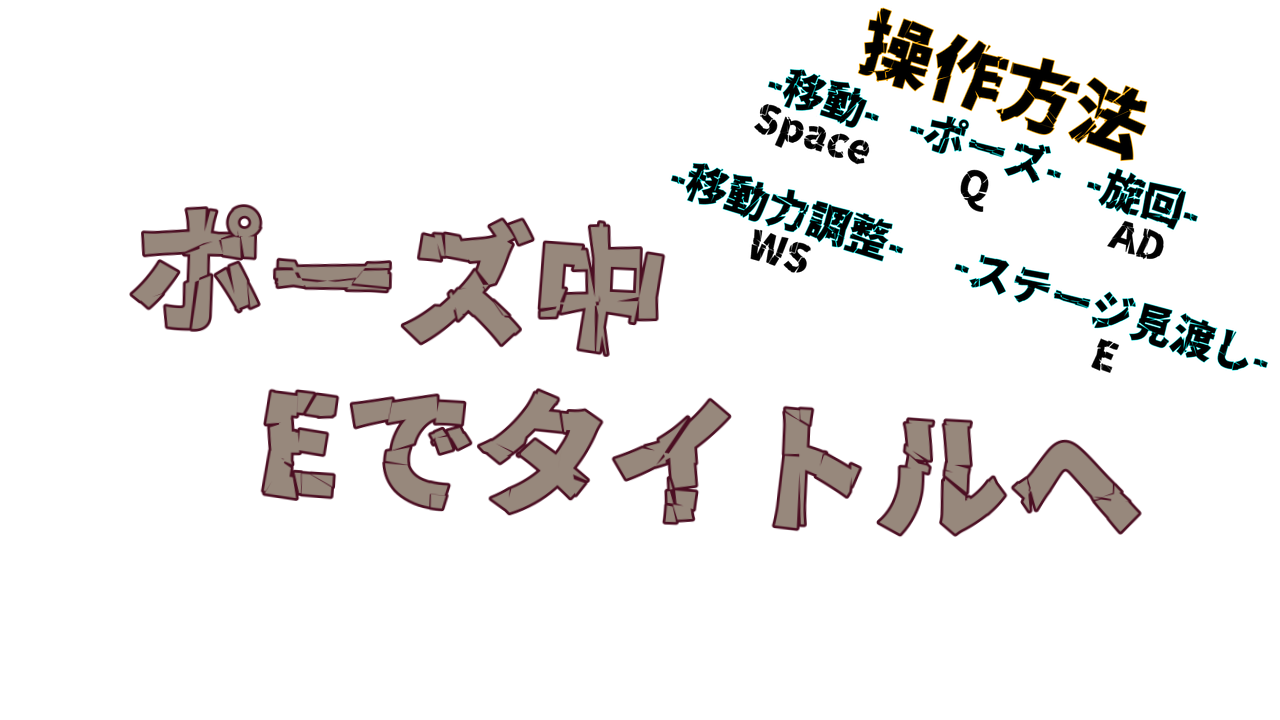
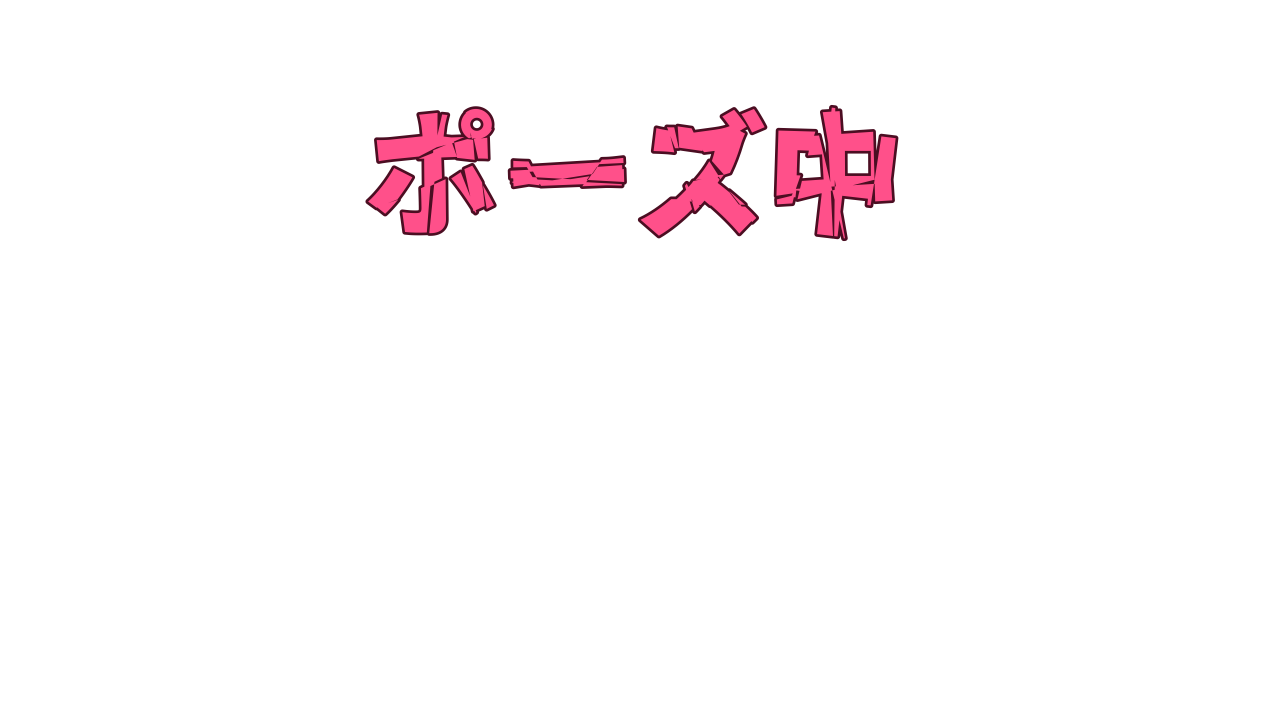
TransitionTest

Changed region(s): [[0.0938, 0.0, 0.9375, 0.4889], [0.1875, 0.5194, 0.9062, 0.7639], [0.75, 0.3361, 1.0, 0.5194]]

diff --git a/Engine/project/gamedata/transition/transition.cpp b/Engine/project/gamedata/transition/transition.cpp
@@ -50,6 +50,7 @@ void Transition::Initialize() {
 	komaTransform_[3].translate = { -410.0f,16.0f,0.0f };
 	komaTransform_[4].translate = { -150.0f,202.0f,0.0f };
 	komaTransform_[5].translate = { -530.0f,300.0f,0.0f };
+	komaTransform_[6].translate = { 1064.0f,-100.0f,0.0f };
 
 	boxTransform_[0].scale = { 1.6f,0.39f,0.4f };
 	boxTransform_[1].scale = { 1.6f,0.39f,0.4f };
@@ -57,6 +58,7 @@ void Transition::Initialize() {
 	boxTransform_[3].scale = { 1.6f,0.39f,0.4f };
 	boxTransform_[4].scale = { 1.8f,0.39f,0.4f };
 	boxTransform_[5].scale = { 1.6f,0.39f,0.4f };
+	boxTransform_[6].scale = { 0.39f,1.6f,0.4f };
 
 	pairMaterial_[0] = { 1.0f,0.75f,0.75f,1.0f };
 	pairMaterial_[1] = { 0.5f,1.0f,0.5f,1.0f };
@@ -64,6 +66,7 @@ void Transition::Initialize() {
 	pairMaterial_[3] = { 1.0f,0.75f,0.75f,1.0f };
 	pairMaterial_[4] = { 0.5f,0.5f,1.0f,1.0f };
 	pairMaterial_[5] = { 0.75f,0.75f,1.0f,1.0f };
+	pairMaterial_[6] = { 0.75f,0.75f,1.0f,1.0f };
 
 	allSpriteTransform_ = {
 		{1.0f,1.0f,1.0f},
@@ -78,10 +81,13 @@ void Transition::Initialize() {
 	};
 }
 
-void Transition::Update() {
+void Transition::SceneChangeUpdate() {
+	for (int i = 0; i < transitionSpriteMaxNum_ - 1; i++) {
+		komaTransform_[i].translate += allSpriteTransform_.translate;
+	}
+
 	for (int i = 0; i < transitionSpriteMaxNum_; i++) {
 		komaTransform_[i].rotate.num[2] += 0.1f;
-		komaTransform_[i].translate += allSpriteTransform_.translate;
 		boxTransform_[i].translate = komaTransform_[i].translate;
 		boxTransform_[i].translate.num[0] += (boxTransform_[i].scale.num[0] - 0.4f) * 24.0f;
 
@@ -122,6 +128,36 @@ void Transition::Update() {
 	ImGui::End();
 }
 
+void Transition::ChangePauseUpdate() {
+	komaTransform_[6].rotate.num[2] += 0.1f;
+	boxTransform_[6].translate = komaTransform_[0].translate;
+	boxTransform_[6].translate.num[1] -= (boxTransform_[6].scale.num[1] - 0.4f) * 24.0f;
+
+	circleTransform_[6].translate.num[0] = boxSprite_[6]->GetLocalPosition(Vector2{ 0.0f,0.5f }, boxTransform_[0]).num[0];
+	circleTransform_[6].translate.num[1] = boxSprite_[6]->GetLocalPosition(Vector2{ 0.0f,0.5f }, boxTransform_[0]).num[1];
+
+	//ポーズ開始用トランジション
+	if (isPauseStart_ == true) {
+		komaTransform_[6].translate.num[1] += transitionSpeed_;
+		if (pauseStartTransitionEndPoint_ <= komaTransform_[6].translate.num[1]) {
+			isPauseStart_ = false;
+		}
+	}
+
+	//ポーズ終了用トランジション
+	if (isPauseEnd_ == true) {
+		komaTransform_[6].translate.num[1] -= transitionSpeed_;
+		if (pauseEndTransitionEndPoint_ >= komaTransform_[6].translate.num[1]) {
+			isPauseEnd_ = false;
+		}
+	}
+
+	//ImGui
+	ImGui::Begin("Transition");
+	ImGui::DragFloat3("Translate", komaTransform_[6].translate.num, 0.5f);
+	ImGui::End();
+}
+
 void Transition::Draw() {
 	for (int i = 0; i < transitionSpriteMaxNum_; i++) {
 		circleSprite_[i]->Draw(circleTransform_[i], spriteUVTransform_, pairMaterial_[i]);
@@ -139,7 +175,8 @@ void Transition::SceneStart() {
 	komaTransform_[2].translate = { 1150.0f,719.0f,0.0f };
 	komaTransform_[3].translate = { 1170.0f,16.0f,0.0f };
 	komaTransform_[4].translate = { 1430.0f,202.0f,0.0f };
-	komaTransform_[5].translate = { 1050.0f,300.0f,0.0f }; 
+	komaTransform_[5].translate = { 1050.0f,300.0f,0.0f };
+	komaTransform_[6].translate = { -530.0f,300.0f,0.0f };
 }
 
 void Transition::SceneEnd() {
@@ -152,4 +189,19 @@ void Transition::SceneEnd() {
 	komaTransform_[3].translate = { -410.0f,16.0f,0.0f };
 	komaTransform_[4].translate = { -150.0f,202.0f,0.0f };
 	komaTransform_[5].translate = { -530.0f,300.0f,0.0f };
+	komaTransform_[6].translate = { -530.0f,300.0f,0.0f };
+}
+
+void Transition::PauseStart() {
+	isPauseStart_ = true;
+	isPauseEnd_ = false;
+
+	komaTransform_[6].translate.num[0] = 1064.0f;
+}
+
+void Transition::PauseEnd() {
+	isPauseEnd_ = true;
+	isPauseStart_ = false;
+
+	komaTransform_[6].translate.num[0] = 1064.0f;
 }

diff --git a/Engine/project/gamedata/transition/transition.h b/Engine/project/gamedata/transition/transition.h
@@ -14,18 +14,26 @@ public:
 
 	void Initialize();
 
-	void Update();
+	void SceneChangeUpdate();
+
+	void ChangePauseUpdate();
 
 	void Draw();
 
 	//シーン明け用
 	void SceneStart();
-
 	//シーン終わり用
 	void SceneEnd();
 
+	void PauseStart();
+
+	void PauseEnd();
+
 	bool GetIsSceneStart_() { return isSceneStart_; }
 	bool GetIsSceneEnd_() { return isSceneEnd_; }
+
+	bool GetIsPauseStart_() { return isPauseStart_; }
+	bool GetIsPauseEnd_() { return isPauseEnd_; }
 
 	Transition(const Transition& obj) = delete;
 	Transition& operator=(const Transition& obj) = delete;
@@ -40,7 +48,7 @@ private:
 	uint32_t box_;
 	uint32_t circle_;
 
-	static const int transitionSpriteMaxNum_ = 6;//独楽と円の個数は同じである必要がある為これは両方に適用する
+	static const int transitionSpriteMaxNum_ = 7;//独楽と円の個数は同じである必要がある為これは両方に適用する
 
 	std::unique_ptr <CreateSprite> komaSprite_[transitionSpriteMaxNum_];
 	EulerTransform komaTransform_[transitionSpriteMaxNum_];
@@ -60,6 +68,9 @@ private:
 	bool isSceneStart_ = false;
 	bool isSceneEnd_ = false;
 
+	bool isPauseStart_ = false;
+	bool isPauseEnd_ = false;
+
 	//遷移スピード
 	const float transitionSpeed_ = 20.0f;
 
@@ -67,4 +78,6 @@ private:
 	const float startTransitionEndPoint_ = 3000.0f;
 	const float endTransitionEndPoint_ = 1430.0f;
 
+	const float pauseStartTransitionEndPoint_ = 550.0f;
+	const float pauseEndTransitionEndPoint_ = -100.0f;
 };

diff --git a/Engine/project/gamedata/scenes/GamePlayScene.cpp b/Engine/project/gamedata/scenes/GamePlayScene.cpp
@@ -251,6 +251,7 @@ void GamePlayScene::Update() {
 
 			//ゲームをポーズ
 			if (input_->TriggerKey(DIK_Q)) {
+				transition_->PauseStart();
 				isGamePause_ = true;
 			}
 		}
@@ -320,10 +321,10 @@ void GamePlayScene::Update() {
 
 		//当たり判定処理
 		CollisionConclusion();
-	}
 
-	//Transition更新
-	transition_->Update();
+		//Transition更新
+		transition_->SceneChangeUpdate();
+	}
 
 	//
 	ImGui::Begin("PlayScene");
@@ -635,8 +636,11 @@ void GamePlayScene::GameProcessing() {
 }
 
 void GamePlayScene::GamePauseProcessing() {
+	transition_->ChangePauseUpdate();
+
 	//ゲームポーズを解除
 	if (input_->TriggerKey(DIK_Q)) {
+		transition_->PauseEnd();
 		isGamePause_ = false;
 	}
 

diff --git a/Engine/project/gamedata/scenes/GameClearScene.cpp b/Engine/project/gamedata/scenes/GameClearScene.cpp
@@ -113,7 +113,7 @@ void GameClearScene::Update() {
 	player_->UpdateView();
 	player_->SetViewProjection(&viewProjection_);
 
-	transition_->Update();
+	transition_->SceneChangeUpdate();
 
 	if (changeAlpha_ == false) {
 		spriteAlpha_ -= fadeSpeed_;

diff --git a/Engine/project/gamedata/scenes/GameOverScene.cpp b/Engine/project/gamedata/scenes/GameOverScene.cpp
@@ -87,7 +87,7 @@ void GameOverScene::Update() {
 	player_->UpdateView();
 	player_->SetViewProjection(&viewProjection_);
 
-	transition_->Update();
+	transition_->SceneChangeUpdate();
 
 	if (changeAlpha_ == false) {
 		spriteAlpha_ -= fadeSpeed_;

diff --git a/Engine/project/gamedata/scenes/GameTitleScene.cpp b/Engine/project/gamedata/scenes/GameTitleScene.cpp
@@ -176,7 +176,7 @@ void GameTitleScene::Update() {
 	}
 
 	//
-	transition_->Update();
+	transition_->SceneChangeUpdate();
 
 	//Playerの更新
 	player_->UpdateView();
